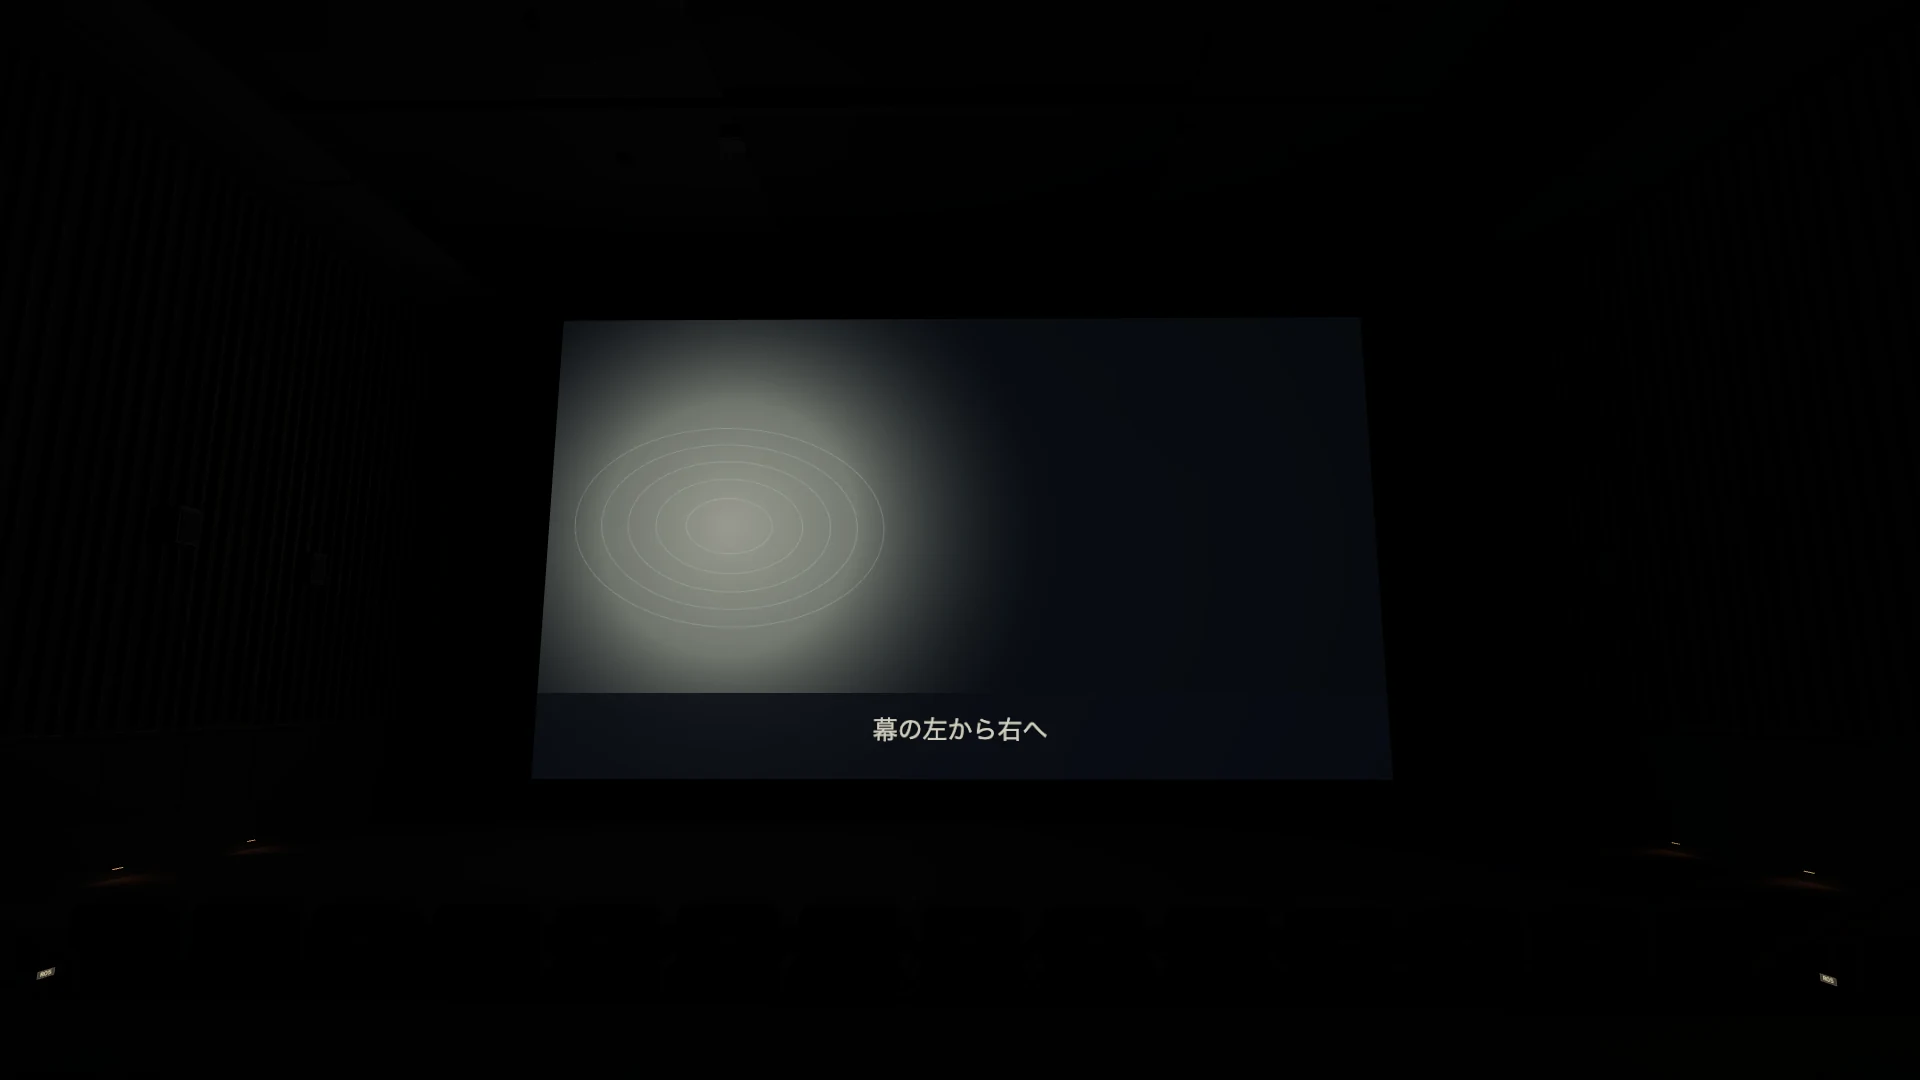
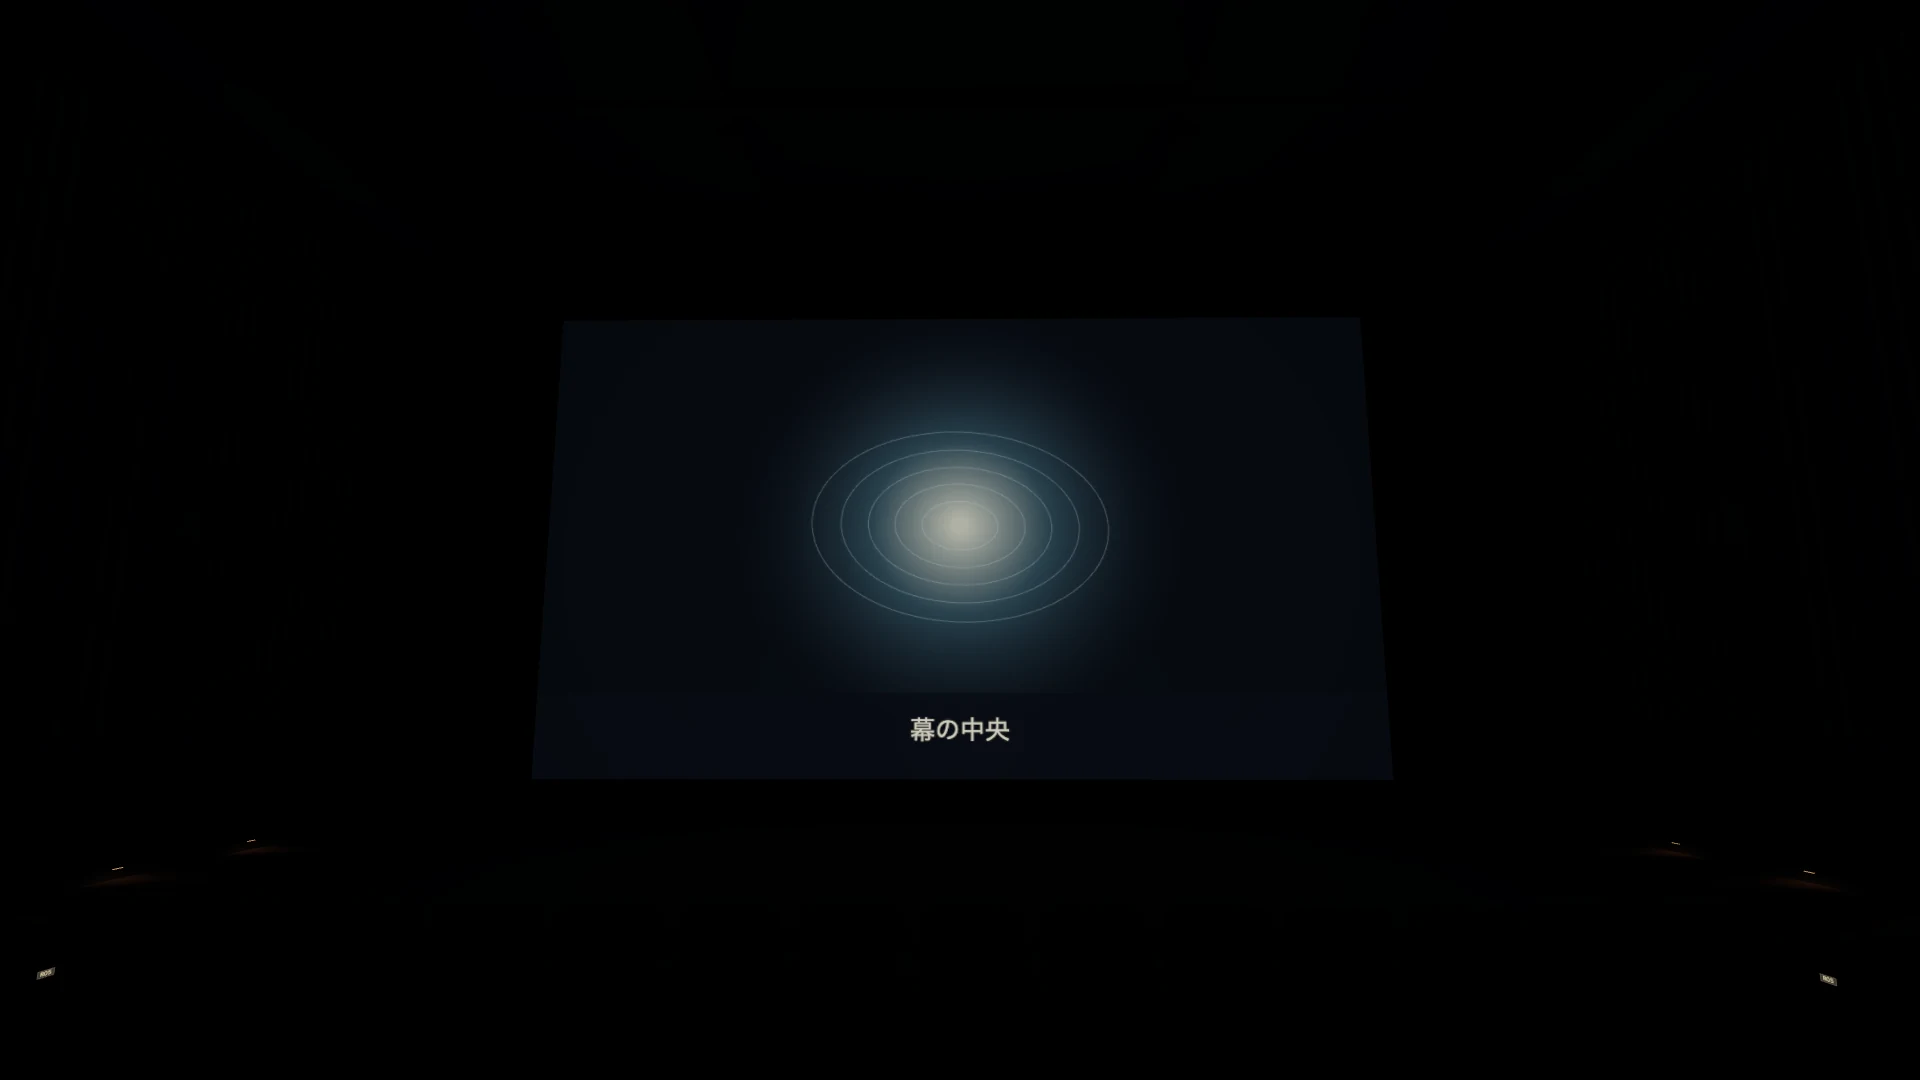
docs(gallery): refresh cinema views from the validated integration build

Changed region(s): [[0.2812, 0.275, 0.5938, 0.6417], [0.4375, 0.6417, 0.5312, 0.7028]]

diff --git a/docs/gallery/capture.md b/docs/gallery/capture.md
@@ -12,7 +12,7 @@
 
 掲載用の画像は原寸PNGをWebPへ圧縮したものです。6枚の一覧用サムネイルだけ640 × 360 pxに縮小しています。更新分のREADME代表は展望台の主夜景、住戸のリビング昼景、映画館の清掃照明の後方視点です。写真の構図はトリミングしていません。撮影日時、ブラウザー版、原本PNGと掲載WebPのSHA-256、画像容量は撮影記録を参照してください。
 
-掲載は景観36枚、UIあり6枚、一覧用6枚の計48ファイル、合計7,813,990 bytes（約7.45 MiB）です。新しい撮影版の掲載画像は16ファイルです。撮影日時とブラウザー版は写真別記録、掲載用の変換はImageMagick 7.0.10-57、quality 88 / method 6です。
+掲載は景観36枚、UIあり6枚、一覧用6枚の計48ファイル、合計7,807,210 bytes（約7.45 MiB）です。新しい撮影版の掲載画像は24ファイルです。撮影日時とブラウザー版は写真別記録、掲載用の変換はImageMagick 7.0.10-57、quality 88 / method 6です。
 
 | ワールド | 景観写真 | 縦視野角 |
 | --- | --- | --- |
@@ -51,7 +51,7 @@ GALLERY_OUTPUT=/tmp/lumen-gallery-raw COAST_CHROME_CHANNEL=chromium node scripts
 GALLERY_OUTPUT=/tmp/lumen-gallery-raw node scripts/capture-gallery.mjs coast-inlet-day lake-hall-day
 ```
 
-[撮影スクリプト](../../scripts/capture-gallery.mjs)はURLで到着地点を開き、「高品質」、昼夜、設定ボタン、通常のマウス操作・歩行から構図を作ります。WebGLの行列を読み取り、実際に描画した視点を記録します。追跡中の `src/`・`public/` に未コミット変更がある場合は撮影を止めます。配信されたHTML・JavaScriptのハッシュも記録しますが、それだけでビルドとコミットの対応は証明できないため、再取得前に `npm run build` を実行してください。更新した12視点はclean統合版から取得し、配信HTML・JavaScriptと全103配布ファイルが検証済みnativeビルドに一致することを確認しました。実撮影revisionは公開componentのcommitへ置換せずに記録します。撮影用スタイルで操作UIを一時的に非表示にし、UIあり版も別途取得します。シーンの座標や形状を直接書き換えていません。撮影計画を変えたら、実際の写真と操作経路を目視し、キャプションと記録も同時に更新してください。
+[撮影スクリプト](../../scripts/capture-gallery.mjs)はURLで到着地点を開き、「高品質」、昼夜、設定ボタン、通常のマウス操作・歩行から構図を作ります。WebGLの行列を読み取り、実際に描画した視点を記録します。追跡中の `src/`・`public/` に未コミット変更がある場合は撮影を止めます。配信されたHTML・JavaScriptのハッシュも記録しますが、それだけでビルドとコミットの対応は証明できないため、再取得前に `npm run build` を実行してください。更新した18視点はclean統合版から取得し、配信HTML・JavaScriptと全103配布ファイルが検証済みnativeビルドに一致することを確認しました。実撮影revisionは公開componentのcommitへ置換せずに記録します。撮影用スタイルで操作UIを一時的に非表示にし、UIあり版も別途取得します。シーンの座標や形状を直接書き換えていません。撮影計画を変えたら、実際の写真と操作経路を目視し、キャプションと記録も同時に更新してください。
 
 ## 掲載用の変換
 
